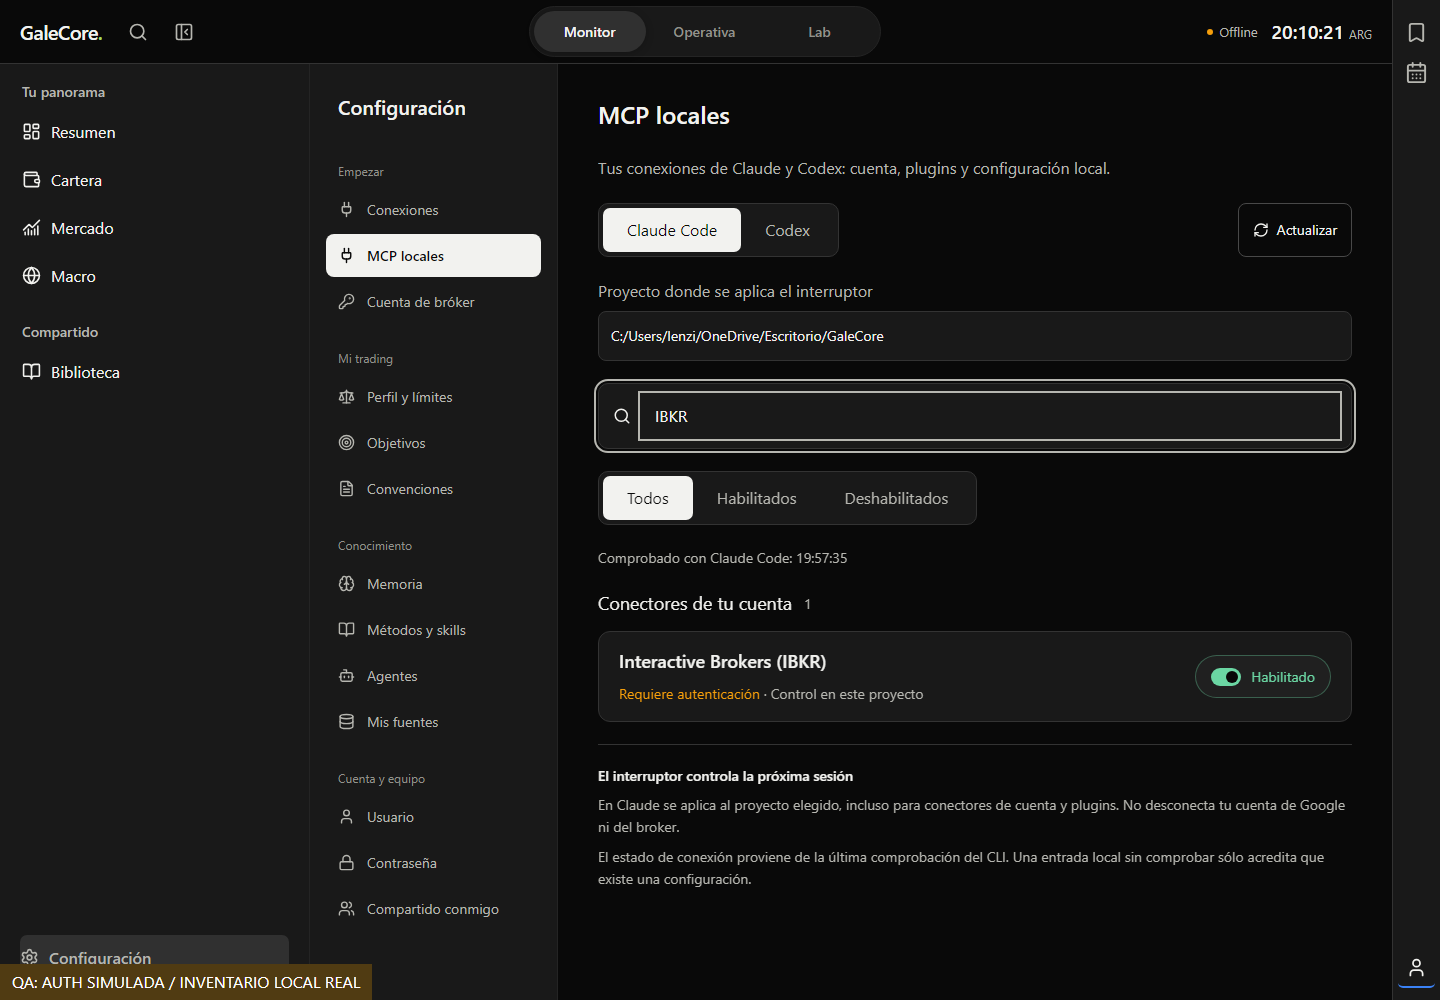
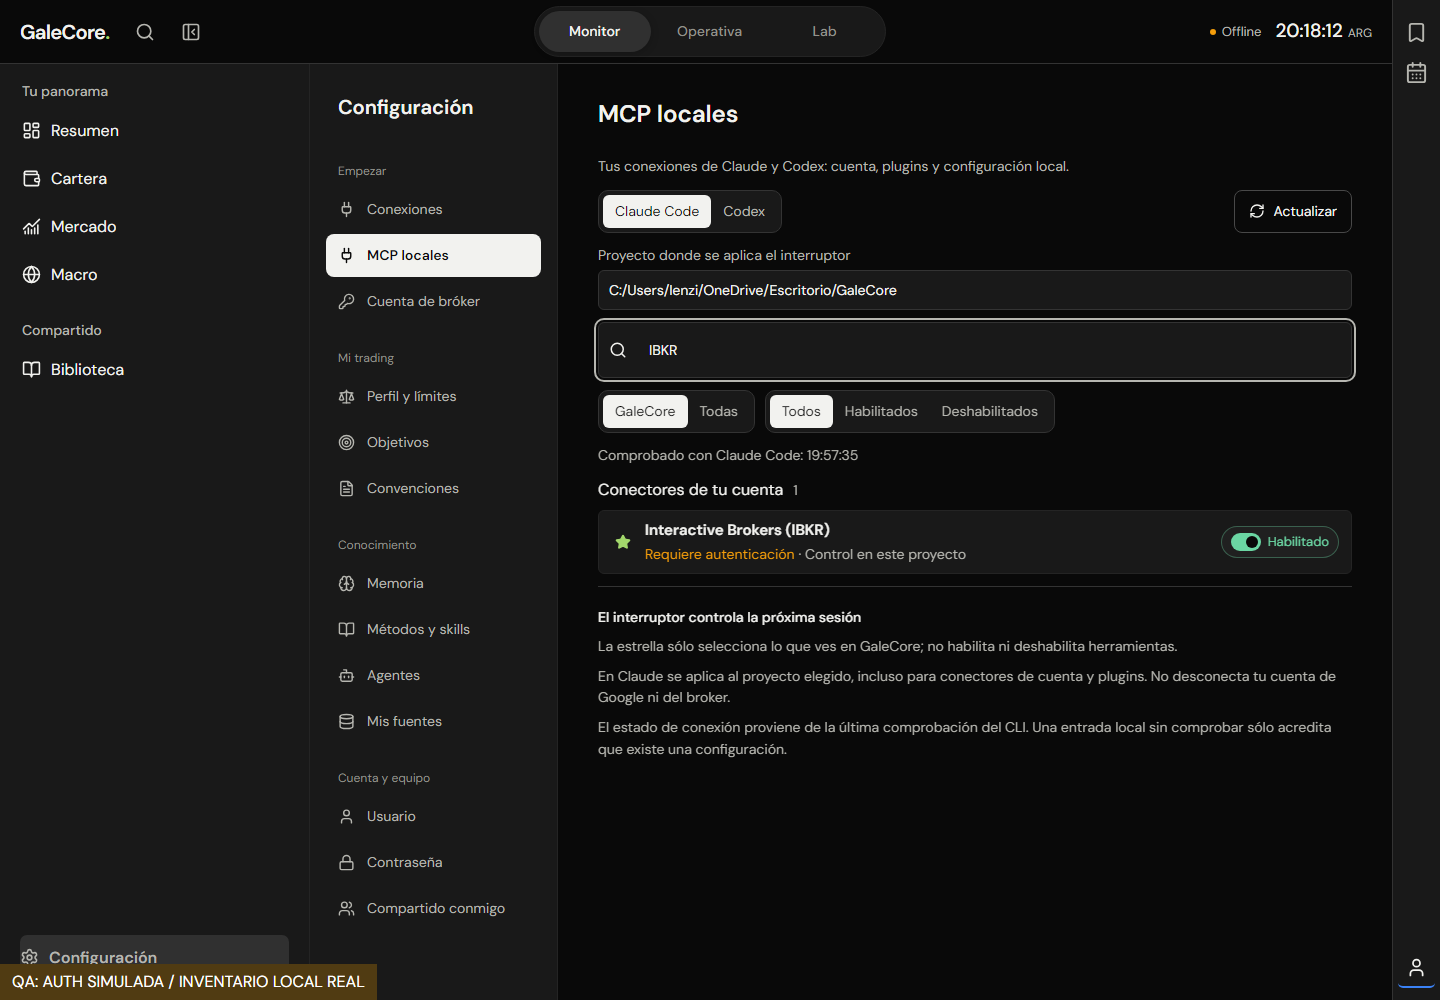
Compact MCP rows and curate a personal GaleCore favorites view

diff --git a/source/galecore-monitor/src/components/settings/LocalMcp.tsx b/source/galecore-monitor/src/components/settings/LocalMcp.tsx
@@ -1,5 +1,5 @@
 import React, { useEffect, useState } from 'react';
-import { Plug, RefreshCw, Search } from 'lucide-react';
+import { Plug, RefreshCw, Search, Star } from 'lucide-react';
 import { fetchLocalMcp, refreshLocalMcp, toggleLocalMcp, LocalMcpInventory, LocalMcpServer } from '../../api/localMcp';
 import './LocalMcp.css';
 
@@ -12,6 +12,16 @@ const groups = [
   { id: 'plugin', label: 'MCP de plugins' },
   { id: 'local', label: 'Entradas de configuración local' },
 ];
+const favoritesKey = 'galecore.localMcp.favorites.v1';
+function savedFavorites(): string[] | null {
+  try {
+    const value = JSON.parse(localStorage.getItem(favoritesKey) || 'null');
+    return Array.isArray(value) && value.every(item => typeof item === 'string') ? value : null;
+  } catch { return null; }
+}
+const favoriteId = (server: LocalMcpServer) => server.provider + ':' + server.name;
+const initialFavorite = (server: LocalMcpServer) => server.origin === 'account'
+  && /alpha|google drive|google calendar|gmail|ibkr|iol/i.test(server.name);
 
 export function LocalMcp() {
   const [inventory, setInventory] = useState<LocalMcpInventory | null>(null);
@@ -19,6 +29,8 @@ export function LocalMcp() {
   const [context, setContext] = useState('');
   const [query, setQuery] = useState('');
   const [enabledFilter, setEnabledFilter] = useState<'all' | 'enabled' | 'disabled'>('all');
+  const [view, setView] = useState<'galecore' | 'all'>('galecore');
+  const [favorites, setFavorites] = useState<string[] | null>(savedFavorites);
   const [busy, setBusy] = useState(false);
   const [error, setError] = useState('');
   const [message, setMessage] = useState('');
@@ -42,8 +54,17 @@ export function LocalMcp() {
   const selectedContext = contexts.includes(context) ? context
     : contexts.includes(inventory?.workspace || '') ? inventory!.workspace : contexts[0] || '';
   const visible = rows.filter(s => s.context === selectedContext);
+  const isFavorite = (server: LocalMcpServer) => favorites === null ? initialFavorite(server) : favorites.includes(favoriteId(server));
   const matches = visible.filter(s => (s.displayName || s.name).toLowerCase().includes(query.trim().toLowerCase())
-    && (enabledFilter === 'all' || s.enabled === (enabledFilter === 'enabled')));
+    && (enabledFilter === 'all' || s.enabled === (enabledFilter === 'enabled'))
+    && (view === 'all' || isFavorite(s)));
+  function favorite(server: LocalMcpServer) {
+    const selected = favorites || (inventory?.servers || []).filter(initialFavorite).map(favoriteId);
+    const id = favoriteId(server);
+    const next = selected.includes(id) ? selected.filter(item => item !== id) : [...selected, id];
+    setFavorites(next);
+    try { localStorage.setItem(favoritesKey, JSON.stringify(next)); } catch { /* Keep the current selection in memory. */ }
+  }
   async function refresh() {
     setBusy(true); setError(''); setMessage('');
     try { setInventory(await (provider === 'claude' ? refreshLocalMcp() : fetchLocalMcp())); }
@@ -63,7 +84,7 @@ export function LocalMcp() {
     <div className="local-mcp-toolbar">
       <div className="local-mcp-tabs" role="group" aria-label="CLI de las conexiones">
         {(['claude', 'codex'] as const).map(id => <button key={id} aria-pressed={provider === id} disabled={busy}
-          onClick={() => { setProvider(id); setContext(''); setQuery(''); setMessage(''); }}>{id === 'claude' ? 'Claude Code' : 'Codex'}</button>)}
+          onClick={() => { setProvider(id); setContext(''); setQuery(''); setMessage(''); setView(id === 'claude' ? 'galecore' : 'all'); }}>{id === 'claude' ? 'Claude Code' : 'Codex'}</button>)}
       </div>
       <button className="settings-action" disabled={busy || (provider === 'claude' && inventory?.refreshing)} onClick={refresh}><RefreshCw size={16}/>Actualizar</button>
     </div>
@@ -73,9 +94,15 @@ export function LocalMcp() {
       </select>
     </label>}
     <label className="local-mcp-search"><Search size={18}/><input aria-label="Buscar conexión" placeholder="Buscar Alpha Vantage, Google, IBKR…" value={query} onChange={e => setQuery(e.target.value)}/></label>
+    <div className="local-mcp-filter-row">
+    <div className="local-mcp-tabs local-mcp-filters" role="group" aria-label="Vista de conexiones">
+      <button aria-pressed={view === 'galecore'} onClick={() => setView('galecore')}>GaleCore</button>
+      <button aria-pressed={view === 'all'} onClick={() => setView('all')}>Todas</button>
+    </div>
     <div className="local-mcp-tabs local-mcp-filters" role="group" aria-label="Filtrar por habilitación">
       {([{ id: 'all', label: 'Todos' }, { id: 'enabled', label: 'Habilitados' }, { id: 'disabled', label: 'Deshabilitados' }] as const).map(filter =>
         <button key={filter.id} aria-pressed={enabledFilter === filter.id} onClick={() => setEnabledFilter(filter.id)}>{filter.label}</button>)}
+    </div>
     </div>
     {busy && <p role="status">Leyendo o guardando configuración…</p>}
     {provider === 'claude' && inventory?.refreshing && <p role="status">Comprobando conexiones con Claude Code…</p>}
@@ -84,7 +111,7 @@ export function LocalMcp() {
     {provider === 'claude' && inventory?.discoveryError && <div className="settings-error" role="alert">{inventory.discoveryError}</div>}
     {message && <p className="local-mcp-notice" role="status">{message}</p>}
     {inventory && !visible.length && <div className="local-mcp-empty"><Plug size={28}/><h2>Sin MCP configurados</h2><p>No hay conexiones detectadas para este CLI y proyecto.</p></div>}
-    {visible.length > 0 && !matches.length && <p>No hay conexiones que coincidan con los filtros.</p>}
+    {visible.length > 0 && !matches.length && <p>No hay conexiones que coincidan con los filtros. {view === 'galecore' && 'En Todas podés marcar las que querés ver con la estrella.'}</p>}
     {groups.map(group => {
       const entries = matches.filter(s => (s.origin || 'local') === group.id);
       if (!entries.length) return null;
@@ -93,7 +120,9 @@ export function LocalMcp() {
         <div className="local-mcp-list">{entries.map(server => {
           const status = server.enabled ? server.runtimeStatus || 'unverified' : 'disabled';
           return <section className="local-mcp-card" key={server.id} aria-label={'MCP ' + server.name}>
-            <div className="local-mcp-card-head"><div><h3>{server.displayName || server.name}</h3>
+            <div className="local-mcp-card-head"><button className={'local-mcp-favorite' + (isFavorite(server) ? ' is-selected' : '')}
+              aria-label={'Mostrar en vista GaleCore: ' + (server.displayName || server.name)} aria-pressed={isFavorite(server)} onClick={() => favorite(server)}><Star size={16}/></button>
+              <div className="local-mcp-card-info"><h3>{server.displayName || server.name}</h3>
               <span className={'local-mcp-runtime is-' + status}>{statusLabels[status] || 'Sin comprobar'}</span>
               <span className="local-mcp-scope"> · {server.scope}</span></div>
               <button className="local-mcp-switch" role="switch" aria-checked={server.enabled} aria-label={'Habilitar ' + server.name}
@@ -107,6 +136,7 @@ export function LocalMcp() {
       </section>;
     })}
     <div className="local-mcp-help"><strong>El interruptor controla la próxima sesión</strong>
+      <p>La estrella sólo selecciona lo que ves en GaleCore; no habilita ni deshabilita herramientas.</p>
       <p>En Claude se aplica al proyecto elegido, incluso para conectores de cuenta y plugins. No desconecta tu cuenta de Google ni del broker.</p>
       <p>El estado de conexión proviene de la última comprobación del CLI. Una entrada local sin comprobar sólo acredita que existe una configuración.</p>
       {provider === 'codex' && <p>Codex muestra los servidores MCP declarados en su configuración de usuario; sus integraciones de la aplicación quedan fuera de este listado.</p>}

diff --git a/source/galecore-monitor/src/components/settings/LocalMcp.css b/source/galecore-monitor/src/components/settings/LocalMcp.css
@@ -1,25 +1,25 @@
-.local-mcp { display: grid; gap: 22px; font-size: 16px; }
+.local-mcp { display: grid; gap: 12px; font-size: 14px; }
 .local-mcp p { margin: 0; line-height: 1.55; }
 .local-mcp-intro { color: var(--text-secondary); }
 .local-mcp-toolbar { display: flex; justify-content: space-between; gap: 16px; flex-wrap: wrap; }
 .local-mcp-tabs { display: flex; background: var(--bg-secondary); border: 1px solid var(--border); padding: 4px; border-radius: 10px; }
-.local-mcp-tabs button { padding: 10px 24px; border: 0; border-radius: 7px; background: transparent; color: var(--text-secondary); cursor: pointer; font-size: 16px; }
+.local-mcp-tabs button { padding: 6px 12px; border: 0; border-radius: 6px; background: transparent; color: var(--text-secondary); cursor: pointer; font-size: 14px; }
 .local-mcp-tabs button[aria-pressed=true] { background: var(--text-primary); color: var(--bg-primary); }
-.local-mcp-context { display: grid; gap: 8px; color: var(--text-secondary); }
-.local-mcp-context select { padding: 12px; width: 100%; min-width: 0; background: var(--bg-secondary); border: 1px solid var(--border); border-radius: 8px; color: var(--text-primary); font-size: 14px; }
-.local-mcp-list { display: grid; gap: 14px; }
-.local-mcp-card { border: 1px solid var(--border); border-radius: 12px; background: var(--bg-secondary); padding: 24px; }
-.local-mcp-card-head { display: flex; align-items: center; justify-content: space-between; gap: 20px; flex-wrap: wrap; }
+.local-mcp-context { display: grid; gap: 4px; color: var(--text-secondary); }
+.local-mcp-context select { padding: 7px 10px; width: 100%; min-width: 0; background: var(--bg-secondary); border: 1px solid var(--border); border-radius: 6px; color: var(--text-primary); font-size: 14px; }
+.local-mcp-list { display: grid; gap: 4px; }
+.local-mcp-card { border: 1px solid var(--border-dark); border-radius: 6px; background: var(--bg-secondary); padding: 8px 12px; }
+.local-mcp-card-head { display: flex; align-items: center; gap: 10px; flex-wrap: wrap; }
 .local-mcp-card h2 { font-size: 22px; font-weight: 600; margin: 0 0 8px; overflow-wrap: anywhere; }
 .local-mcp-card-head div > span { color: var(--text-secondary); font-size: 14px; }
-.local-mcp-switch { border: 1px solid var(--border-light); border-radius: 24px; padding: 10px 15px; background: var(--bg-tertiary); color: var(--text-secondary); cursor: pointer; display: flex; gap: 10px; align-items: center; font-size: 14px; }
+.local-mcp-switch { border: 1px solid var(--border-light); border-radius: 18px; padding: 5px 9px; background: var(--bg-tertiary); color: var(--text-secondary); cursor: pointer; display: flex; gap: 7px; align-items: center; font-size: 13px; }
 .local-mcp-switch > span { width: 30px; height: 18px; border-radius: 12px; background: var(--text-muted); position: relative; }
 .local-mcp-switch > span:after { content: ''; position: absolute; width: 12px; height: 12px; top: 3px; left: 3px; border-radius: 50%; background: var(--bg-primary); }
 .local-mcp-switch[aria-checked=true] { color: var(--green); border-color: var(--green-border); }
 .local-mcp-switch[aria-checked=true] > span { background: var(--green); }
 .local-mcp-switch[aria-checked=true] > span:after { left: 15px; }
 .local-mcp button:disabled { opacity: .5; cursor: wait; }
-.local-mcp-card details { margin-top: 20px; color: var(--text-secondary); font-size: 14px; }
+.local-mcp-card details { margin-top: 6px; color: var(--text-secondary); font-size: 13px; }
 .local-mcp-card summary { cursor: pointer; }
 .local-mcp-card details p { margin-top: 10px; overflow-wrap: anywhere; }
 .local-mcp-help { border-top: 1px solid var(--border); padding-top: 20px; font-size: 14px; color: var(--text-secondary); display: grid; gap: 8px; }
@@ -27,15 +27,16 @@
 .local-mcp-notice { background: var(--green-muted); border: 1px solid var(--green-border); border-radius: 10px; padding: 16px; }
 .local-mcp-empty { padding: 28px; border: 1px dashed var(--border-light); border-radius: 12px; color: var(--text-secondary); }
 .local-mcp-empty h2 { color: var(--text-primary); font-size: 20px; margin: 14px 0 8px; }
-@media(max-width:700px) { .local-mcp-card { padding: 18px; } .local-mcp-tabs button { padding: 10px 16px; } }
+@media(max-width:700px) { .local-mcp-card { padding: 8px; } .local-mcp-switch { margin-left: 32px; } }
 
-.local-mcp-card { padding: 16px 20px; }
-.local-mcp-card h3 { font-size: 18px; font-weight: 600; margin: 0 0 6px; overflow-wrap: anywhere; }
-.local-mcp-group { display: grid; gap: 14px; }
-.local-mcp-group-title { font-size: 18px; margin: 0; display: flex; gap: 12px; align-items: center; }
+.local-mcp-card-info { flex: 1; min-width: 150px; }
+.local-mcp-card h3 { font-size: 15px; font-weight: 600; margin: 0 0 2px; overflow-wrap: anywhere; }
+.local-mcp-group { display: grid; gap: 8px; }
+.local-mcp-group-title { font-size: 16px; margin: 0; display: flex; gap: 10px; align-items: center; }
 .local-mcp-group-title span { color: var(--text-secondary); font-size: 14px; font-weight: 400; }
-.local-mcp-search { display: flex; gap: 12px; align-items: center; border: 1px solid var(--border); background: var(--bg-secondary); border-radius: 10px; padding: 12px 14px; }
-.local-mcp-search input { flex: 1; min-width: 0; background: transparent; border: 0; color: var(--text-primary); font-size: 16px; outline: none; }
+.local-mcp-search { display: flex; gap: 10px; align-items: center; border: 1px solid var(--border); background: var(--bg-secondary); border-radius: 6px; padding: 7px 10px; }
+.local-mcp-search input { flex: 1; min-width: 0; background: transparent; border: 0; color: var(--text-primary); font-size: 14px; outline: none; }
+.local-mcp-search input:focus-visible { outline: none; box-shadow: none; }
 .local-mcp-search:focus-within { outline: 2px solid var(--focus-ring); outline-offset: 2px; }
 .local-mcp-runtime { font-size: 14px; color: var(--text-secondary); }
 .local-mcp-runtime.is-connected { color: var(--green); }
@@ -44,3 +45,7 @@
 .local-mcp-scope, .local-mcp-checked { font-size: 14px; color: var(--text-secondary); }
 .local-mcp-switch:disabled { cursor: not-allowed; }
 .local-mcp-filters { width: fit-content; max-width: 100%; flex-wrap: wrap; }
+.local-mcp-filter-row { display: flex; gap: 10px; flex-wrap: wrap; }
+.local-mcp-favorite { border: 0; background: transparent; color: var(--text-muted); padding: 4px; cursor: pointer; flex-shrink: 0; }
+.local-mcp-favorite.is-selected { color: var(--accent); }
+.local-mcp-favorite.is-selected svg { fill: currentColor; }

diff --git a/source/galecore-monitor/src/components/settings/LocalMcp.test.tsx b/source/galecore-monitor/src/components/settings/LocalMcp.test.tsx
@@ -4,7 +4,7 @@ import { LocalMcp } from './LocalMcp';
 import { fetchLocalMcp, toggleLocalMcp } from '../../api/localMcp';
 jest.mock('../../api/localMcp', () => ({ fetchLocalMcp: jest.fn(), refreshLocalMcp: jest.fn(), toggleLocalMcp: jest.fn() }));
 const data = { workspace: 'test-project', status: 'configuration-only', servers: [{ id: 'a', name: 'sample', provider: 'codex', context: 'Todos los proyectos', scope: 'Usuario', enabled: true, transport: 'stdio', file: 'config.toml', revision: 'r' }] };
-beforeEach(() => { jest.resetAllMocks(); (fetchLocalMcp as jest.Mock).mockResolvedValue(data); });
+beforeEach(() => { jest.resetAllMocks(); localStorage.clear(); (fetchLocalMcp as jest.Mock).mockResolvedValue(data); });
 test('provider separation and configuration status are explicit', async () => {
   render(<LocalMcp/>);
   await screen.findByText('Sin MCP configurados');
@@ -34,11 +34,30 @@ test('conflict does not falsely change the switch', async () => {
 test('unapproved shared server is disabled and cannot be toggled from the panel', async () => {
   (fetchLocalMcp as jest.Mock).mockResolvedValue({ ...data, servers: [{ ...data.servers[0], provider: 'claude', enabled: false, approvalRequired: true }] });
   render(<LocalMcp/>);
+  fireEvent.click(screen.getByRole('button', { name: 'Todas' }));
   const control = await screen.findByRole('switch');
   expect(control).toBeDisabled();
   expect(control).toHaveAttribute('aria-checked', 'false');
   fireEvent.click(control);
   expect(toggleLocalMcp).not.toHaveBeenCalled();
+});
+
+test('GaleCore favorites hide unrelated account tools and only change the local view', async () => {
+  (fetchLocalMcp as jest.Mock).mockResolvedValue({ ...data, workspace: 'active', servers: [
+    { ...data.servers[0], id: 'google', provider: 'claude', name: 'claude.ai Google Drive', displayName: 'Google Drive', context: 'active', origin: 'account' },
+    { ...data.servers[0], id: 'travel', provider: 'claude', name: 'claude.ai Booking.com', displayName: 'Booking.com', context: 'active', origin: 'account' },
+  ] });
+  render(<LocalMcp/>);
+  await screen.findByRole('heading', { name: 'Google Drive' });
+  expect(screen.queryByRole('heading', { name: 'Booking.com' })).toBeNull();
+  fireEvent.click(screen.getByRole('button', { name: 'Todas' }));
+  fireEvent.click(screen.getByRole('button', { name: 'Mostrar en vista GaleCore: Booking.com' }));
+  fireEvent.click(screen.getByRole('button', { name: 'GaleCore' }));
+  expect(screen.getByRole('heading', { name: 'Booking.com' })).toBeInTheDocument();
+  expect(JSON.parse(localStorage.getItem('galecore.localMcp.favorites.v1') || '[]')).toContain('claude:claude.ai Booking.com');
+  expect(toggleLocalMcp).not.toHaveBeenCalled();
+  fireEvent.click(screen.getByRole('button', { name: 'Mostrar en vista GaleCore: Booking.com' }));
+  expect(screen.queryByRole('heading', { name: 'Booking.com' })).toBeNull();
 });
 
 test('account connectors and plugins are shown in the active workspace rather than the legacy local project', async () => {

diff --git a/dev/local_mcp_smoke.py b/dev/local_mcp_smoke.py
@@ -82,6 +82,21 @@ def main():
         page.get_by_text("Comprobado con Claude Code:", exact=False).wait_for(
             timeout=70000
         )
+        assert page.get_by_role("heading", name="Booking.com", exact=True).count() == 0
+        page.get_by_role("button", name="Todas", exact=True).click()
+        page.get_by_role("heading", name="Booking.com", exact=True).wait_for()
+        page.get_by_role(
+            "button", name="Mostrar en vista GaleCore: Booking.com", exact=True
+        ).click()
+        page.get_by_role("button", name="GaleCore", exact=True).click()
+        page.get_by_role("heading", name="Booking.com", exact=True).wait_for()
+        page.get_by_role(
+            "button", name="Mostrar en vista GaleCore: Booking.com", exact=True
+        ).click()
+        assert page.get_by_role("heading", name="Booking.com", exact=True).count() == 0
+        report["checks"].append(
+            "GaleCore favorites exclude unrelated travel tools; stars edit browser preference only"
+        )
         page.get_by_role(
             "heading", name="Alpha Vantage MCP Server", exact=True
         ).wait_for(timeout=70000)
@@ -98,6 +113,11 @@ def main():
                 page.get_by_role("heading", name=name, exact=True).wait_for()
             page.screenshot(path=str(output / ("account-" + query.lower() + ".png")))
         search.fill("Google")
+        google_card = page.get_by_role(
+            "region", name="MCP claude.ai Google Drive", exact=True
+        )
+        assert google_card.bounding_box()["height"] <= 80
+        report["checks"].append("Compact desktop account row is at most 80px high")
         page.get_by_role("button", name="Habilitados", exact=True).click()
         page.get_by_role("heading", name="Google Drive", exact=True).wait_for()
         page.get_by_role("button", name="Todos", exact=True).click()

diff --git a/docs/engineering/evidence/GC-0031/README.md b/docs/engineering/evidence/GC-0031/README.md
@@ -83,3 +83,16 @@ Usa el estado del interruptor, independientemente de conectado/requiere autentic
 Recorrido Chromium agrega checks de filtro sobre inventario real y cambio de pertenencia
 al apagar/prender el fixture temporal. No cambia MCP reales ni el servicio local.
 Build de esta iteracion: build-enabled-filter.txt.
+
+## Filas compactas y favoritos para GaleCore (13/10)
+Filas desktop <=80px, menor padding/separacion/tipografia; mobile sin overflow.
+Vista GaleCore por defecto para Claude: seleccion inicial de conexiones mencionadas por
+el owner. Todas muestra el inventario completo. Estrellas suman/quitan favoritos,
+guardados en localStorage (nombres de conexiones, sin credenciales). No escriben config
+del CLI ni cambian habilitacion o conexion; los interruptores conservan esa funcion.
+Prueba de componente de preferencias: agregar/quitar Booking.com, persistencia local
+y cero llamadas al writer de MCP. 6 tests del componente pasan.
+Browser-run.json confirma seleccion sobre inventario real y tama?o compacto; auth
+sintetica declarada, preferencias aisladas en ese navegador de QA.
+Build: build-compact-favorites.txt. Fallo inicial de tipo en test (opcion exact no admitida
+por ByRoleOptions) corregido; navegador/dev vuelven a compilar sin errores.

diff --git a/docs/engineering/work-items/GC-0031-conexiones-locales.md b/docs/engineering/work-items/GC-0031-conexiones-locales.md
@@ -41,3 +41,12 @@ ACTIVE_WORK_ITEM sigue WS-0031 de Claude; prioridad autorizada en roadmap §4.
 Owner 13/10: filtro Todos / Habilitados / Deshabilitados, combinado con busqueda.
 Navegador verifica que al apagar/prender una conexion la fila sale del filtro activo.
 Solo prueba temporal, sin modificar configuracion real; mismo 3039, sin cambios al harness.
+
+## Iteracion visual: filas compactas y seleccion GaleCore
+Owner 13/10: mas conexiones visibles y separar las ajenas a GaleCore.
+Filas compactas (desktop verificadas <=80px), controles y espacios reducidos.
+Vista GaleCore: favoritos editables con estrella, guardados solo en este navegador.
+Seleccion inicial de las conexiones que el owner menciono (Alpha Vantage, Google, IBKR, IoL).
+Todas conserva inventario completo; estrellas no cambian autorizaciones del CLI.
+6 tests de componente pasan; recorrido real + fixture verifica favoritos, filtros y mobile.
+Build: ../evidence/GC-0031/build-compact-favorites.txt. No se modifica backend/harness.
